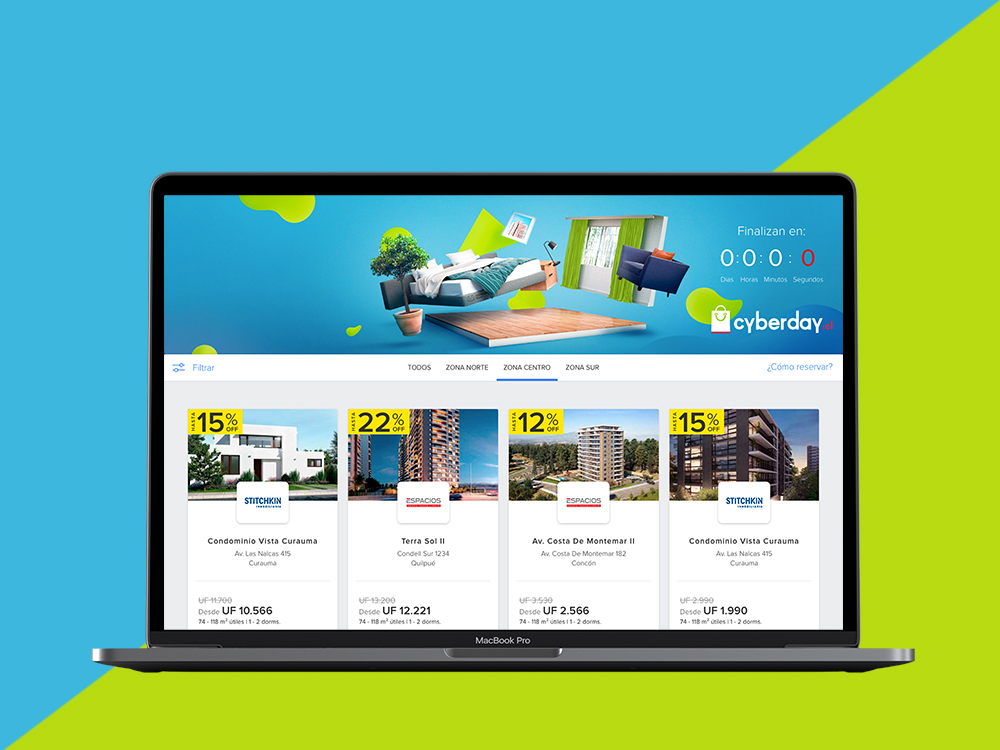
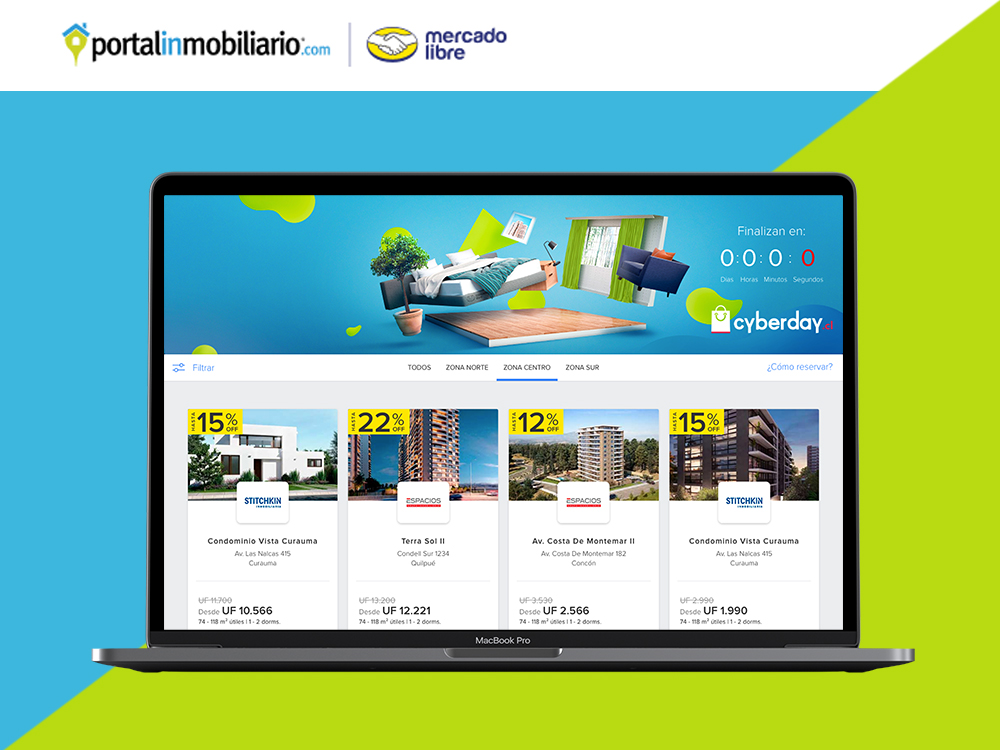
portal ok

Changed region(s): [[0.0, 0.0, 1.0, 0.1227]]

diff --git a/portal.html b/portal.html
@@ -64,20 +64,19 @@
     <div class="row">
         <div class="col-12 col-md-6">
             <div class="resumen">
-                <h3 class="text-left">Chile logistica </h3>
-                <p>Nace como un proyecto para apoyar a las PYMES en el contexto de pandemia Covid-19
-                    <br>
-                    <br>
-                    En el cuál el problema a abordar fué, pensar un solución a la logistica de entrega de productos, de los asociados a ChileCompra, en el escenario del distanciamiento y salud pública que se esta viviendo mundialmente.
+                <h3 class="text-left">Cyberday <br>Portal Inmobilario 2020 </h3>
+                <p>Proyecto para cyberday 2020, para Portal Inmobilario, junto al equipo de trabajo de Mercado Libre.
                 </p>
+                
                 <h4 class="subtitulos d-flex">herramientas:</h4>
 
                 <li class="lista">
-                    <i class="fab fa-figma fa-2x"></i>
+                    <img class="icono" src="assets/img/ps.png" alt="" width="30px" height="auto">
+                    <i class="fab fa-html5 fa-2x"></i>
+                    <i class="fab fa-css3-alt fa-2x"></i>
                 </li>
-
-                <h4 class="subtitulos">Rol en el equipo:</h4>
-                <p>Diseñadora UX/UI</p>
+                <h4 class="subtitulos_">Rol en el equipo:</h4>
+                <p>Productora Digital</p>
                 
             </div>
         </div>
@@ -93,45 +92,13 @@
 <!--FIN RESUMEN PROYECTO-->
 <!--Porque-->
 <div class="container">
-    <div class="row">
-        <div class="col-md-2"></div>
-        <div class="col-md-8">
-            <h3 class="subtitulos text-center">Home central para cyberday 2020</h3>
-                <p class="text-center">Flujo de trabajo del chat box.</p>
-                <img src="assets/img/portal.gif" class="d-block w-100" alt="...">
-                <br>
-                <br>
-                <p class="text-center">Flujo de trabajo registro para acceder al servicio de logistica.</p>
-                <img src="assets/img/registro_logistica.jpg" class="d-block w-100" alt="...">
-                
-                <br>
-                <br>
-                <p class="text-center">Flujo de trabajo del seguimiento de un producto.</p>
-                <img src="assets/img/seguimiento_logistica.jpg" class="d-block w-100" alt="...">
-
-            </div>
-            
-        </div>
-        <div class="col-md-2"></div>
-    </div>
-
-
-<!--etapa2-->
-<!--etapa3-->
-<div class="container">
-    <h3 class="titulos__etapas">UI Kit</h3>
-    <div class="row">
-        <div class="col-12 col-md-6">
-            <img class="mx-auto d-block w-100" src="assets/img/atomos_logistica.jpg" alt="partitura">
-        </div>
-        <div class="col-12 col-md-6">
-            <img class="mx-auto d-block w-100" src="assets/img/moleculas_logistica.jpg" alt="partitura">
-        </div>
-    </div>
+    <img src="assets/img/portal.gif" class="d-block w-100" alt="...">
+    <br>
+    <br>
+    <img src="assets/img/portal_interior.gif" class="d-block w-100" alt="...">
 </div>
-<img class="mx-auto d-block w-100" src="assets/img/logistica_final.gif" alt="partitura">
-
-
+            
+ 
 <!--FOOTER-->
 <footer>
     <div class="container-fluid fondo__footer">

diff --git a/assets/css/style.css b/assets/css/style.css
@@ -564,7 +564,7 @@ li {
 
 /* FOTOS DE LOS PROYECTOS WEB */
 #proyecto-13 {
-  background-image: url("../img/antartica__nueva.jpg"); }
+  background-image: url("../img/portal.jpg"); }
 
 #proyecto-14 {
   background-image: url("../img/..."); }

diff --git a/assets/js/main.js b/assets/js/main.js
@@ -2,7 +2,7 @@
 var elem = document.querySelector('.grid');
 var iso = new Isotope( elem, {
   itemSelector: '.grid-item',
-  filter: '.uxui',
+  filter: '.uxui .web',
   layoutMode: 'fitRows'
 });
 
